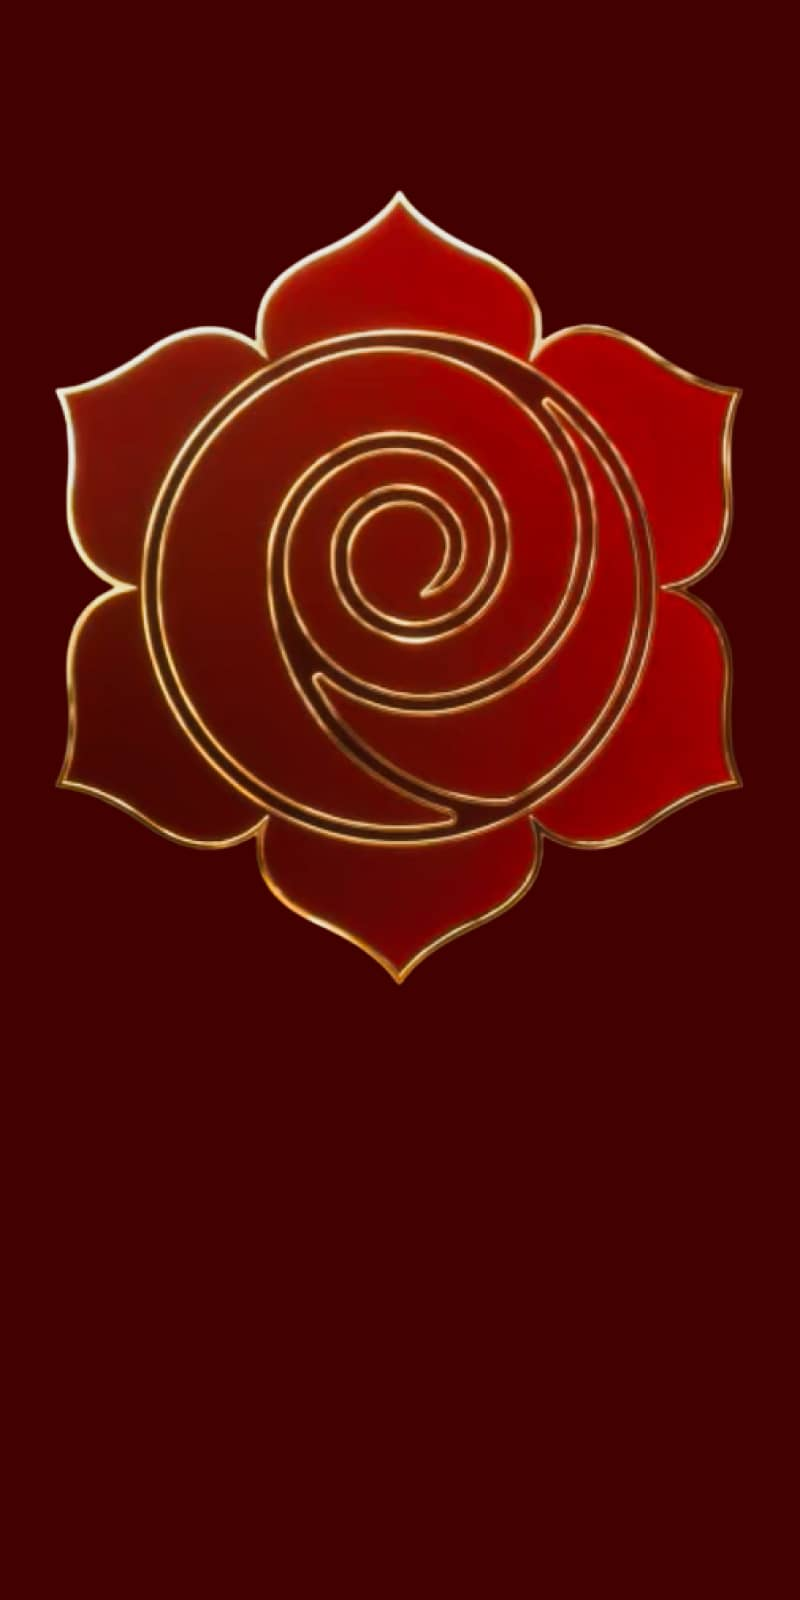
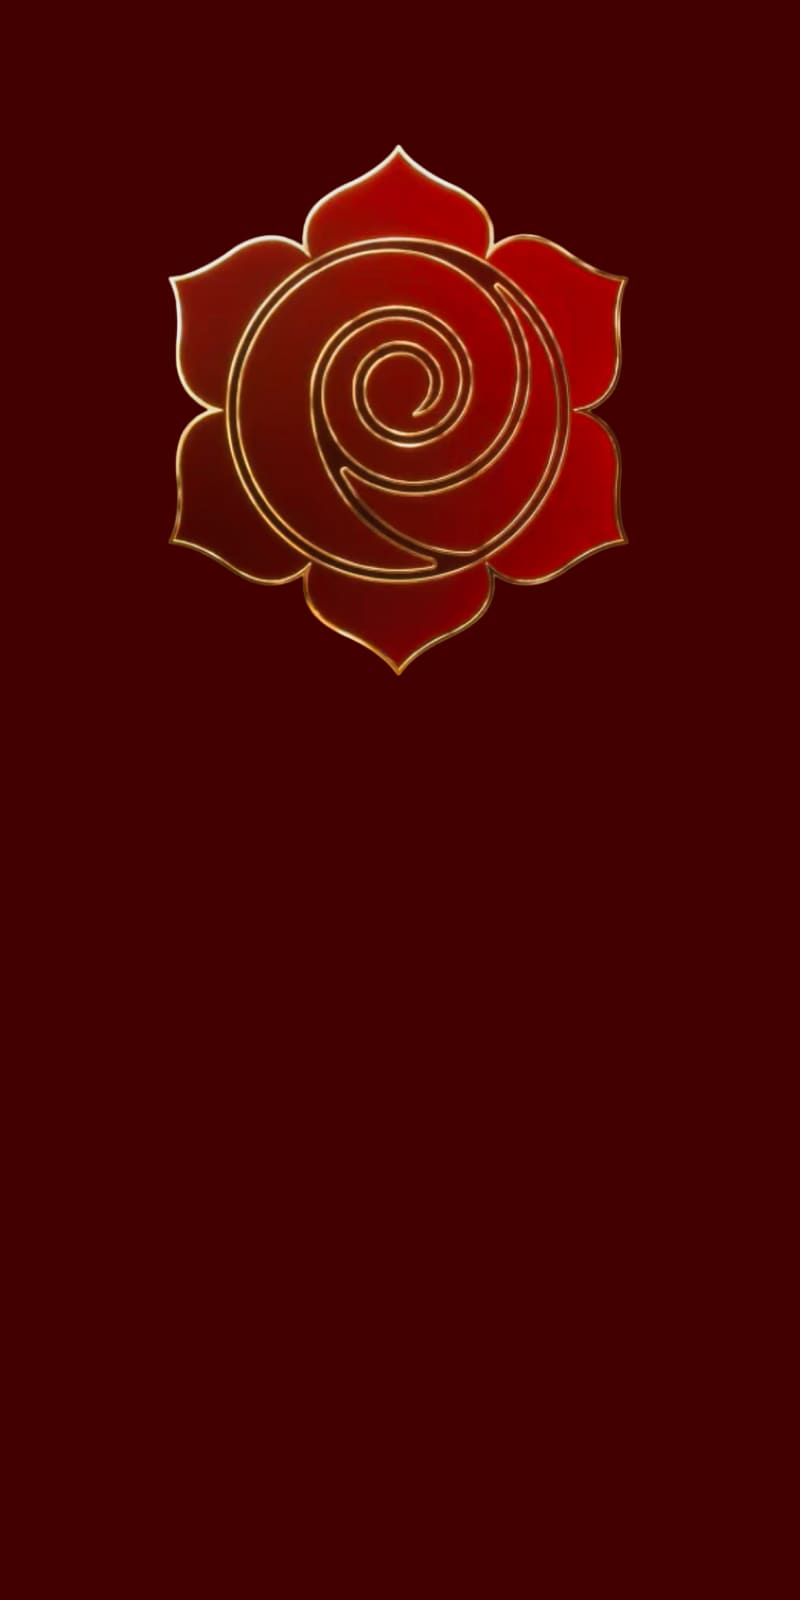
fix style

Changed region(s): [[0.0625, 0.0938, 0.9375, 0.625]]

diff --git a/src/components/Welcome/Welcome.module.css b/src/components/Welcome/Welcome.module.css
@@ -1,12 +1,17 @@
-
 .container {
   width: 100%;
   min-width: 320px;
   height: 100%;
 }
 .background {
-  background-image: linear-gradient(15deg, rgba(0, 0, 0, 0.2) 0%, rgba(0, 0, 0, 0.6) 31%, rgba(0, 0, 0, 0.6) 42%, rgba(0, 0, 0, 0.2) 91%),
-  url(../../backgraund.jpg);
+  background-image: linear-gradient(
+      15deg,
+      rgba(0, 0, 0, 0.2) 0%,
+      rgba(0, 0, 0, 0.6) 31%,
+      rgba(0, 0, 0, 0.6) 42%,
+      rgba(0, 0, 0, 0.2) 91%
+    ),
+    url(../../backgraund.jpg);
   background-position: center;
   background-size: cover;
   min-width: 320px;
@@ -22,9 +27,9 @@
   margin: auto;
 }
 
-.main, .btn {
+.main,
+.btn {
   width: fit-content;
-  background: linear-gradient(90deg, rgba(0, 0, 0, 0.2) 0%, rgba(0, 0, 0, 0.2) 100%);
   padding: 15px;
   color: rgba(255, 255, 255, 0.8);
   font-weight: 400;
@@ -34,19 +39,30 @@
 }
 
 .main {
-  margin-top: 2vh;
+  margin-top: 6px;
   font-size: 20px;
+  color: white;
 }
-
 
 .btn {
   text-transform: uppercase;
-  /* border-width: 2px;
-  transition: all linear 300ms; */
-  margin-top: 60vh;
+  background: linear-gradient(
+    90deg,
+    rgba(0, 0, 0, 0.2) 0%,
+    rgba(0, 0, 0, 0.2) 100%
+  );
+  margin-top: 10vh;
   border: 2px solid rgba(255, 255, 255, 0.2);
 }
 
 .btn:hover {
   cursor: pointer;
+}
+
+.circle {
+  margin-top: 6px;
+  width: 80vw;
+  height: 80vw;
+  border: 1px solid rgba(255, 255, 255, 0.8);
+  border-radius: 50%;
 }

diff --git a/src/components/QuestionA/QuestionA.module.css b/src/components/QuestionA/QuestionA.module.css
@@ -5,7 +5,13 @@
 }
 
 .background {
-  background-image: linear-gradient(15deg, rgba(0, 0, 0, 0.4) 0%, rgba(0, 0, 0, 0.8) 31%, rgba(0, 0, 0, 0.8) 42%, rgba(0, 0, 0, 0.4) 91%),
+  background-image: linear-gradient(
+      15deg,
+      rgba(0, 0, 0, 0.2) 0%,
+      rgba(0, 0, 0, 0.6) 31%,
+      rgba(0, 0, 0, 0.6) 42%,
+      rgba(0, 0, 0, 0.2) 91%
+    ),
     url(../../backgraund.jpg);
   background-position: center;
   background-size: cover;
@@ -16,7 +22,7 @@
 .text {
   max-width: 90vw;
   display: flex;
-  gap: 20px;
+  gap: 30px;
   flex-direction: column;
   align-items: center;
   margin: auto;
@@ -27,11 +33,15 @@
   gap: 12px;
 }
 
-
 .main,
-.btn, .poem {
+.btn,
+.poem {
   width: fit-content;
-  background: linear-gradient(90deg, rgba(0, 0, 0, 0.55) 0%, rgba(0, 0, 0, 0.55) 100%);
+  background: linear-gradient(
+    90deg,
+    rgba(0, 0, 0, 0.3) 0%,
+    rgba(0, 0, 0, 0.3) 100%
+  );
   padding: 15px;
   color: rgba(255, 255, 255, 0.8);
   font-weight: 400;
@@ -40,11 +50,10 @@
 }
 
 .main {
-  margin-top: 60vh;
+  margin-top: 44vh;
   font-size: 20px;
   line-height: 1.5rem;
 }
-
 
 .btn {
   text-transform: uppercase;
@@ -63,6 +72,6 @@
   text-align: center;
   font-weight: 300;
   font-size: 24px;
-  line-height: 2.9rem;
+  line-height: 2.2rem;
   padding: 30px;
 }

diff --git a/src/components/Welcome/Welcome.jsx b/src/components/Welcome/Welcome.jsx
@@ -6,6 +6,7 @@ const Welcome = () => {
   return <div className={css.container}>
     <div className={css.background}>
       <div className={css.text}>
+        <div className={css.circle}></div>
         <div className={css.main}>
           Svetlana,
           welcome to new you...
